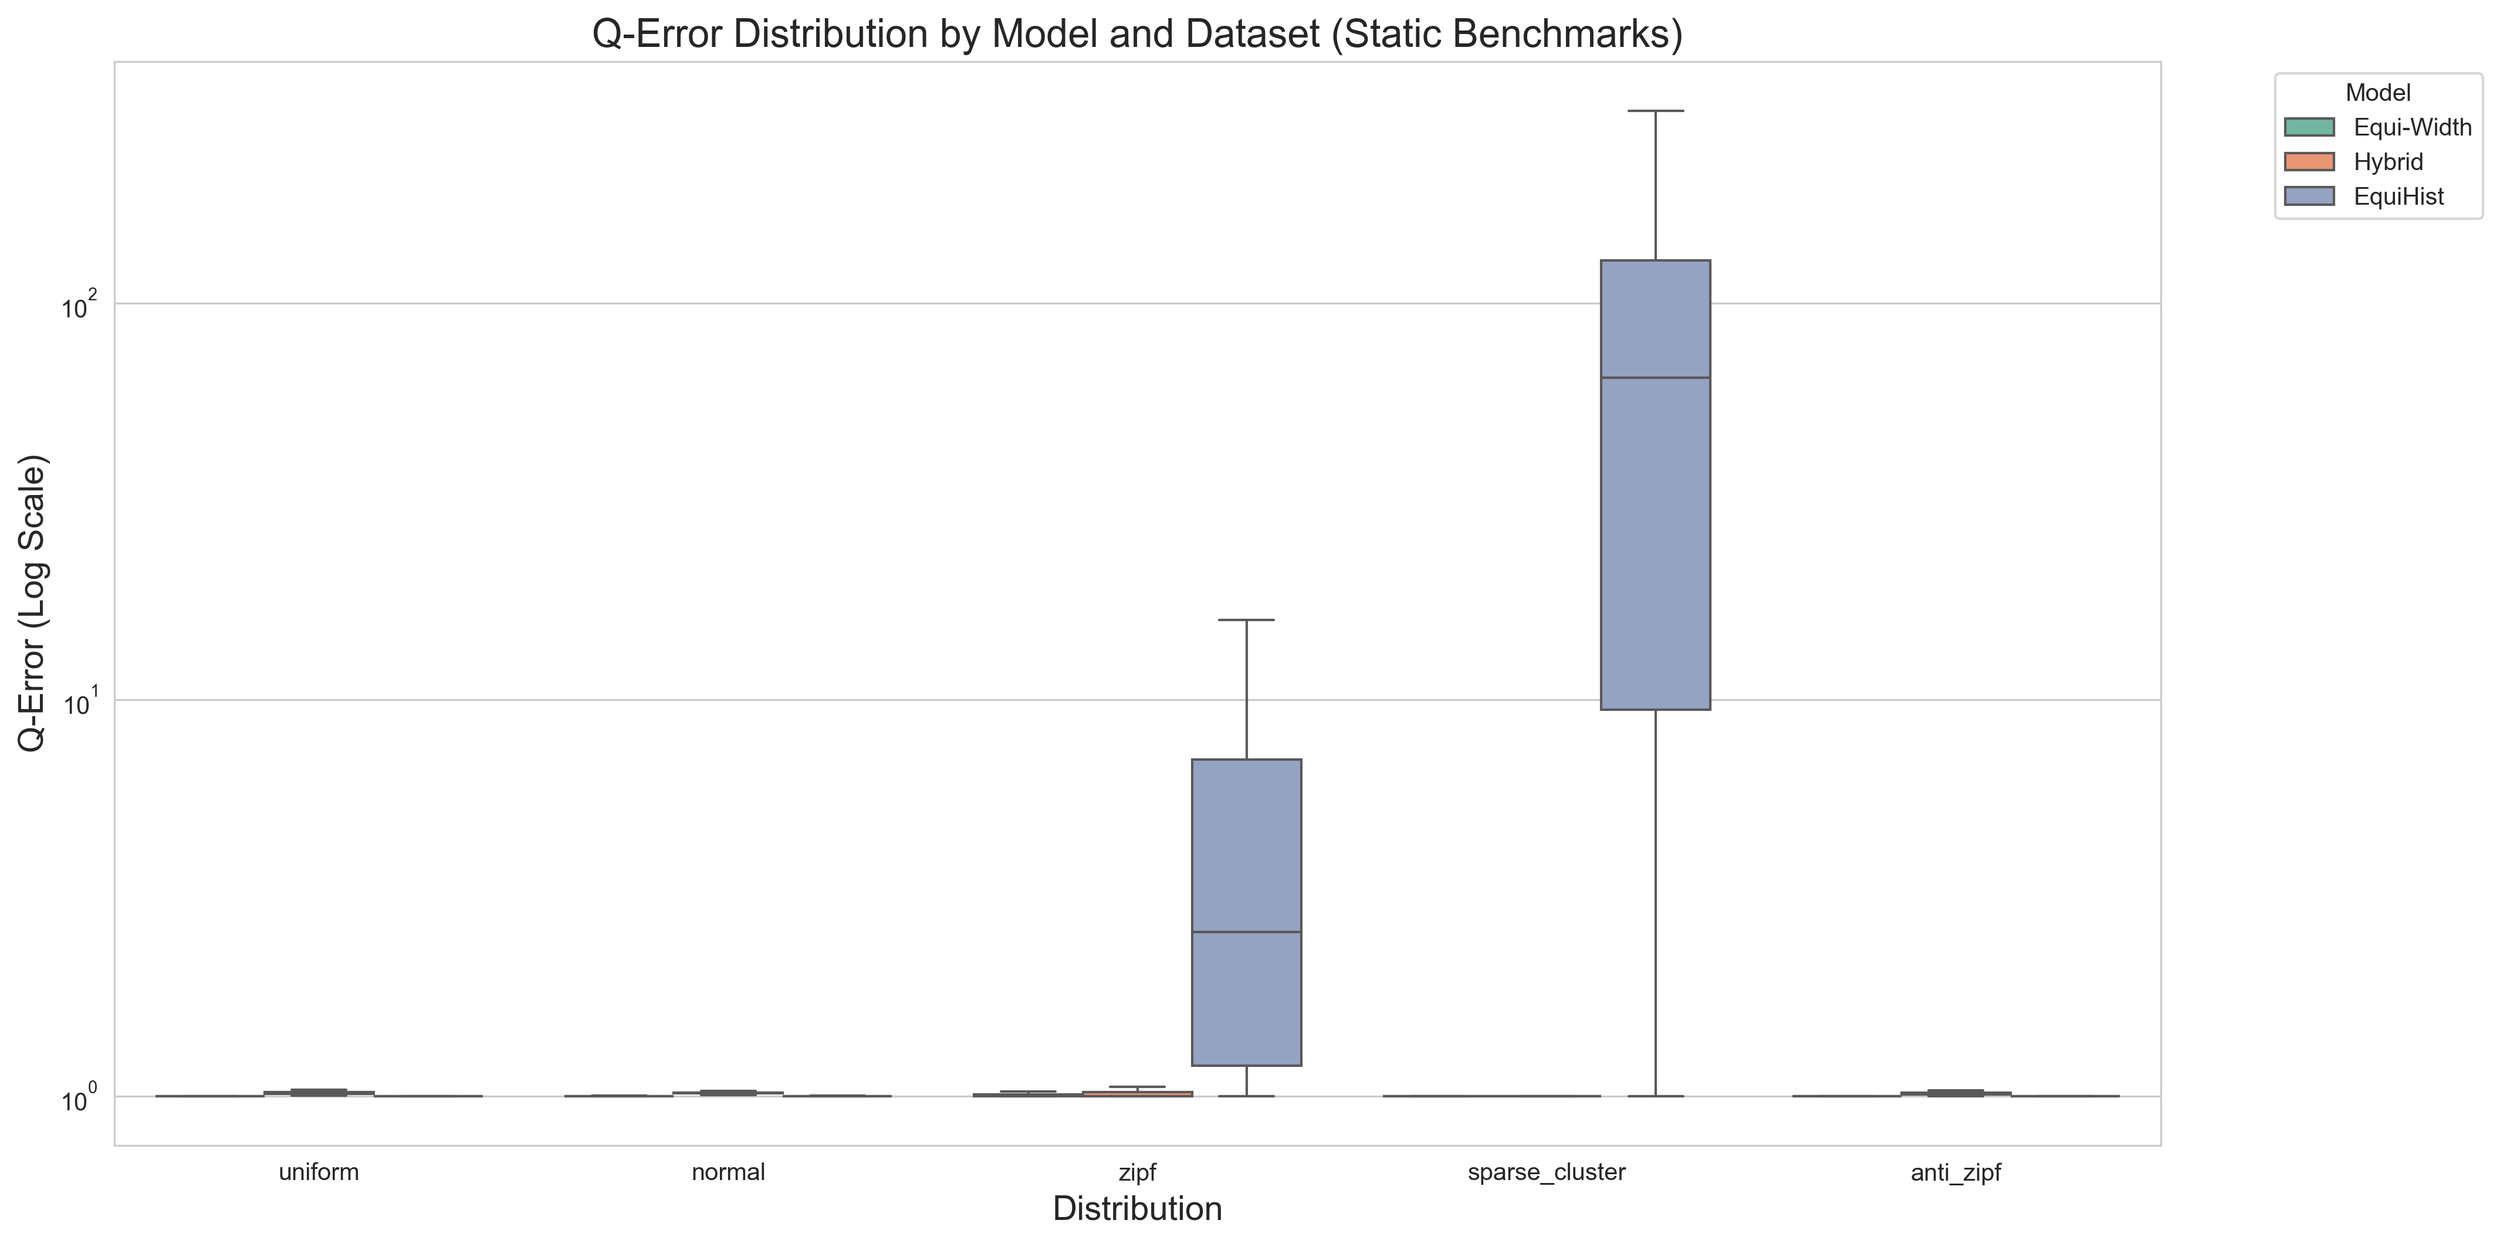
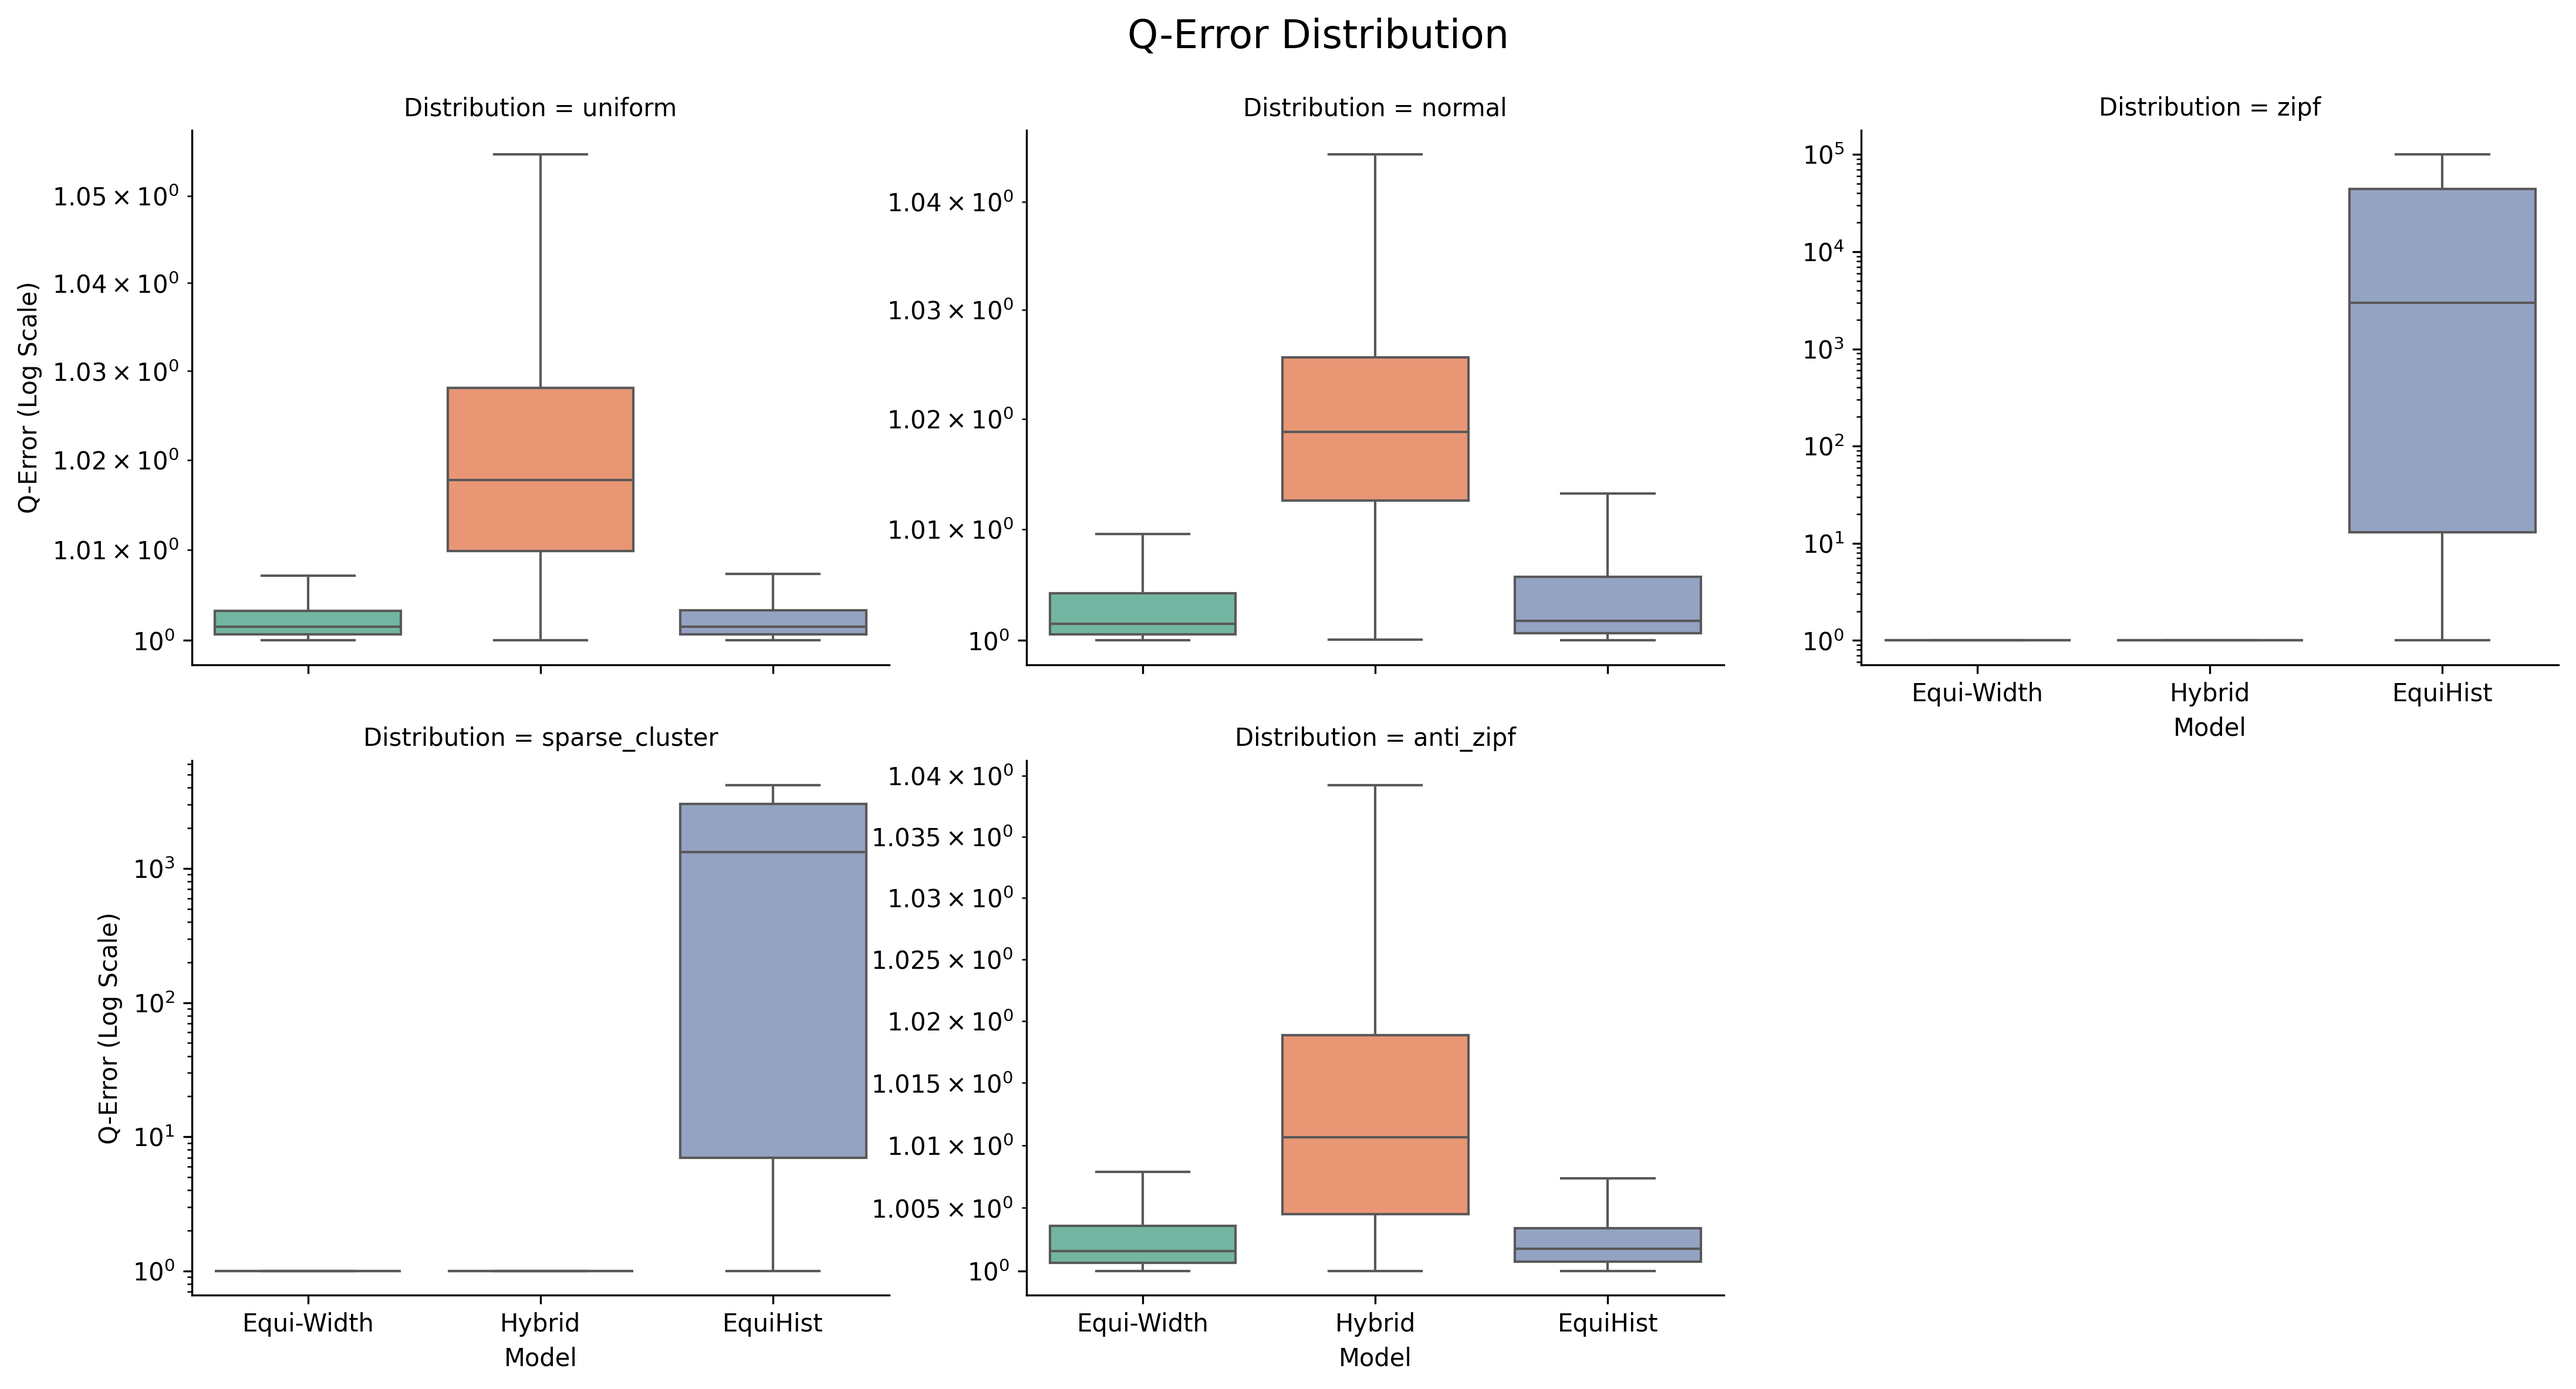
feat: Enhance benchmark sheet to store and save raw Q-Errors for models

diff --git a/datasets/plot_boxplots.py b/datasets/plot_boxplots.py
@@ -4,13 +4,13 @@ import seaborn as sns
 import os
 from pathlib import Path
 
-def generate_boxplots(csv_path="static_errors.csv", output_path="plots/static_boxplots.png", title="Q-Error Distribution"):
+def generate_boxplots(csv_path="experiments/static_errors.csv", output_path="plots/static_boxplots.png", title="Q-Error Distribution"):
     # Try Parquet first, then CSV
     # If the user passed a specific path, use it. If default, check for parquet fallback.
     
-    if csv_path == "static_errors.csv" and not os.path.exists(csv_path):
-        if os.path.exists("static_errors.parquet"):
-            csv_path = "static_errors.parquet"
+    if csv_path == "experiments/static_errors.csv" and not os.path.exists(csv_path):
+        if os.path.exists("experiments/static_errors.parquet"):
+            csv_path = "experiments/static_errors.parquet"
             
     if not os.path.exists(csv_path):
         print(f"Error: {csv_path} not found.")
@@ -30,61 +30,35 @@ def generate_boxplots(csv_path="static_errors.csv", output_path="plots/static_bo
     print(f"Distributions: {df['Distribution'].unique()}")
     print(f"Models: {df['Model'].unique()}")
 
-    # Combined Plot
-    plt.figure(figsize=(15, 8))
-    sns.set_style("whitegrid")
+    # Use catplot to create a faceted boxplot
+    # col="Distribution": creates a subplot for each distribution
+    # sharey=False: allows each subplot to have its own y-axis scale, preventing squishing
+    # col_wrap: wraps columns to keep the plot compact
     
-    sns.boxplot(
+    g = sns.catplot(
         data=df, 
-        x="Distribution", 
+        x="Model", 
         y="QErr", 
-        hue="Model", 
+        col="Distribution", 
+        kind="box", 
         showfliers=False, 
         palette="Set2",
-        width=0.8
+        sharey=False,
+        col_wrap=3,
+        height=4, 
+        aspect=1.2
     )
 
-    plt.yscale("log")
-    plt.title(title, fontsize=16)
-    plt.ylabel("Q-Error (Log Scale)", fontsize=14)
-    plt.xlabel("Distribution", fontsize=14)
-    plt.legend(title="Model", bbox_to_anchor=(1.05, 1), loc='upper left')
+    g.set(yscale="log")
+    g.set_axis_labels("Model", "Q-Error (Log Scale)")
+    g.figure.subplots_adjust(top=0.9)
+    g.figure.suptitle(title, fontsize=16)
     
-    # Save combined plot
+    # Save plot
     os.makedirs(os.path.dirname(output_path), exist_ok=True)
-    plt.savefig(output_path, dpi=300, bbox_inches="tight")
-    print(f"Combined Boxplot saved to {output_path}")
+    g.savefig(output_path, dpi=300, bbox_inches="tight")
+    print(f"Faceted boxplot saved to {output_path}")
     plt.close()
-
-    # Per-Distribution Plots
-    distributions = df['Distribution'].unique()
-    for dist in distributions:
-        plt.figure(figsize=(10, 6))
-        sns.set_style("whitegrid")
-        
-        dist_df = df[df['Distribution'] == dist]
-        
-        sns.boxplot(
-            data=dist_df, 
-            x="Model", 
-            y="QErr", 
-            showfliers=False, 
-            palette="Set2",
-            width=0.6
-        )
-        
-        plt.yscale("log")
-        plt.title(f"{title} - {dist}", fontsize=16)
-        plt.ylabel("Q-Error (Log Scale)", fontsize=14)
-        plt.xlabel("Model", fontsize=14)
-        
-        # Construct path for individual plot
-        path_obj = Path(output_path)
-        dist_output_path = path_obj.parent / f"dist_{dist}.png"
-        
-        plt.savefig(dist_output_path, dpi=300, bbox_inches="tight")
-        print(f"Distribution plot saved to {dist_output_path}")
-        plt.close()
 
 if __name__ == "__main__":
     generate_boxplots()
